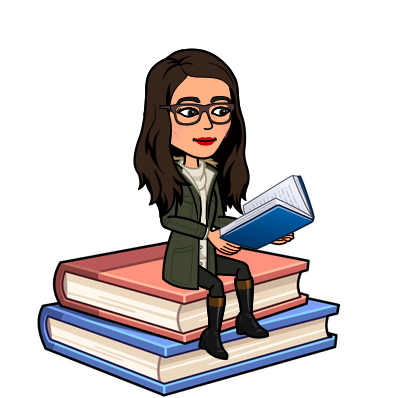
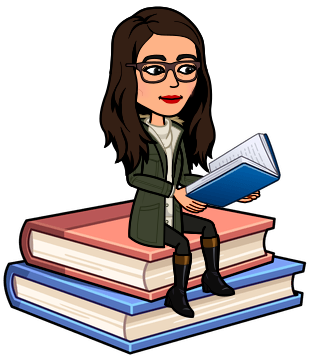
Assets: cropped bitmoji's
#2

diff --git a/consulting.html b/consulting.html
@@ -25,7 +25,7 @@
       <div class="heading-4 color--teal85 mb--325">
         Most designers can make a webpage pretty,
         most developers can code it to work. <br>
-        I will make sure we reach <i>your</i> goals.
+        I will make sure we reach <i><b>your goals</b></i>.
         <hr>
       </div>
     </div>
@@ -35,8 +35,8 @@
     <div class="text--center color--black width--80pct margin--auto mb--325">
         <div class="heading-3 color--black lineHeight--1875 mb--15">
           I’ve worked with over 100 brands, from startups to Fortune 500 corporations, 
-          and realize the most successful ones have a strong foundation.<br> 
-          Decisions are always made <nobr>customer-first</nobr>.
+          and realize the most successful ones have a <b>strong foundation</b>.
+          Decisions are always made <nobr><b>customer-first</b></nobr>.
         </div>
         <div class="heading-6 color--black">Together we'll deep dive into your eCommerce business in 3 ways:</div>
 

diff --git a/index.html b/index.html
@@ -86,7 +86,10 @@
 
     <!-- Call to Action -->
     <hr>
-    <div class="heading-1">I'm here to help you!</div>
+    <div class="mb--125">
+      <img class="bitmoji--page" src="assets/bitmoji/bitmoji--help.png" />
+    </div>
+    <!-- <div class="heading-1">I'm here to help you!</div> -->
     <div class="heading-4 color--black">I'm currently available for freelance work.</div>
     <div class="heading-5 mb--075">Find me on 
       <a href="https://www.linkedin.com/in/raksheen/" target="_blank">LinkedIn</a>,  

diff --git a/writing.html b/writing.html
@@ -195,6 +195,7 @@
 
     <!-- Call to Action -->
     <hr>
+
     <div class="margin--auto text--center">
       <div class="heading-1">I'm here to help you!</div>
       <div class="heading-4 color--black">I'm currently available for freelance work.</div>
@@ -210,8 +211,5 @@
       </div>
     </div>
     <!-- End: Call to Action -->
-
-    
-
 	</body>
 </html>

diff --git a/scss/styles.css b/scss/styles.css
@@ -473,7 +473,7 @@ a.text--decorationNone {
 
 @media screen and (min-width: 800px) {
   .bitmoji--page {
-    width: 240px;
+    width: 200px;
   }
 }
 

diff --git a/scss/components/_assets.scss b/scss/components/_assets.scss
@@ -62,7 +62,7 @@
   width: 180px;
   margin: auto;
   @media screen and (min-width: 800px) {
-    width: 240px;
+    width: 200px;
   } 
 }
 
